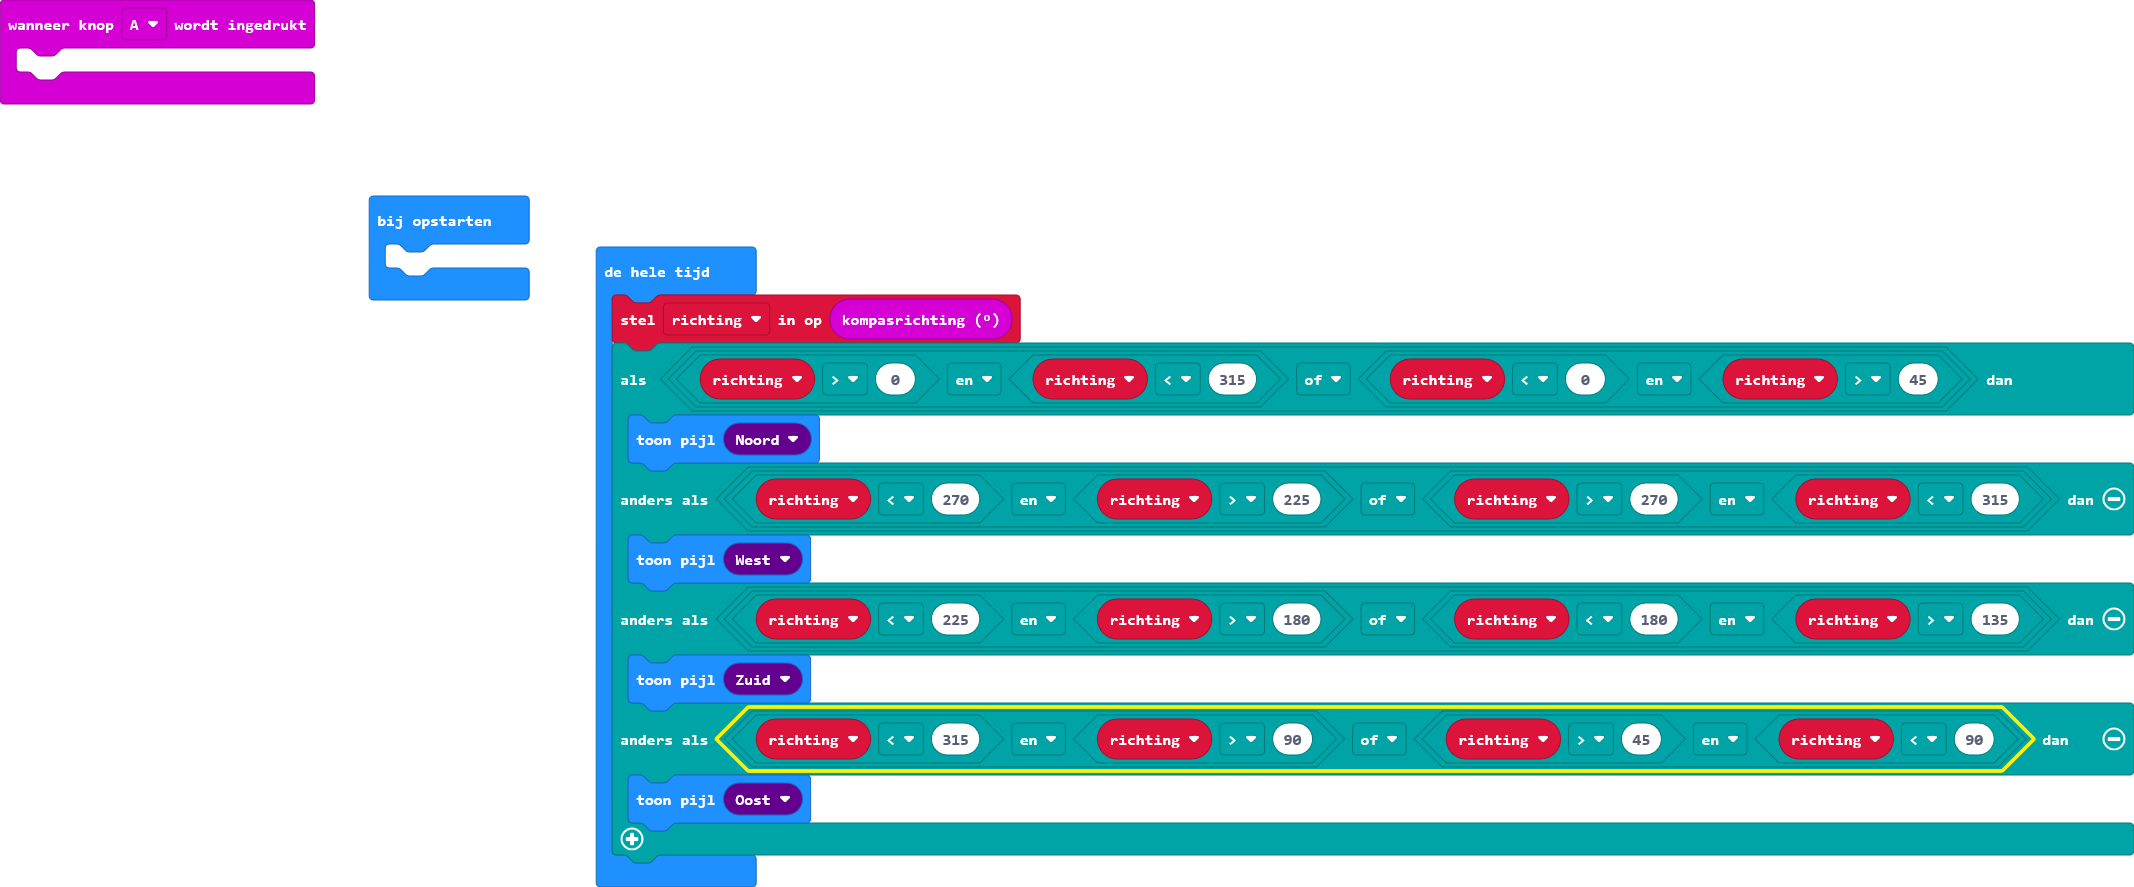
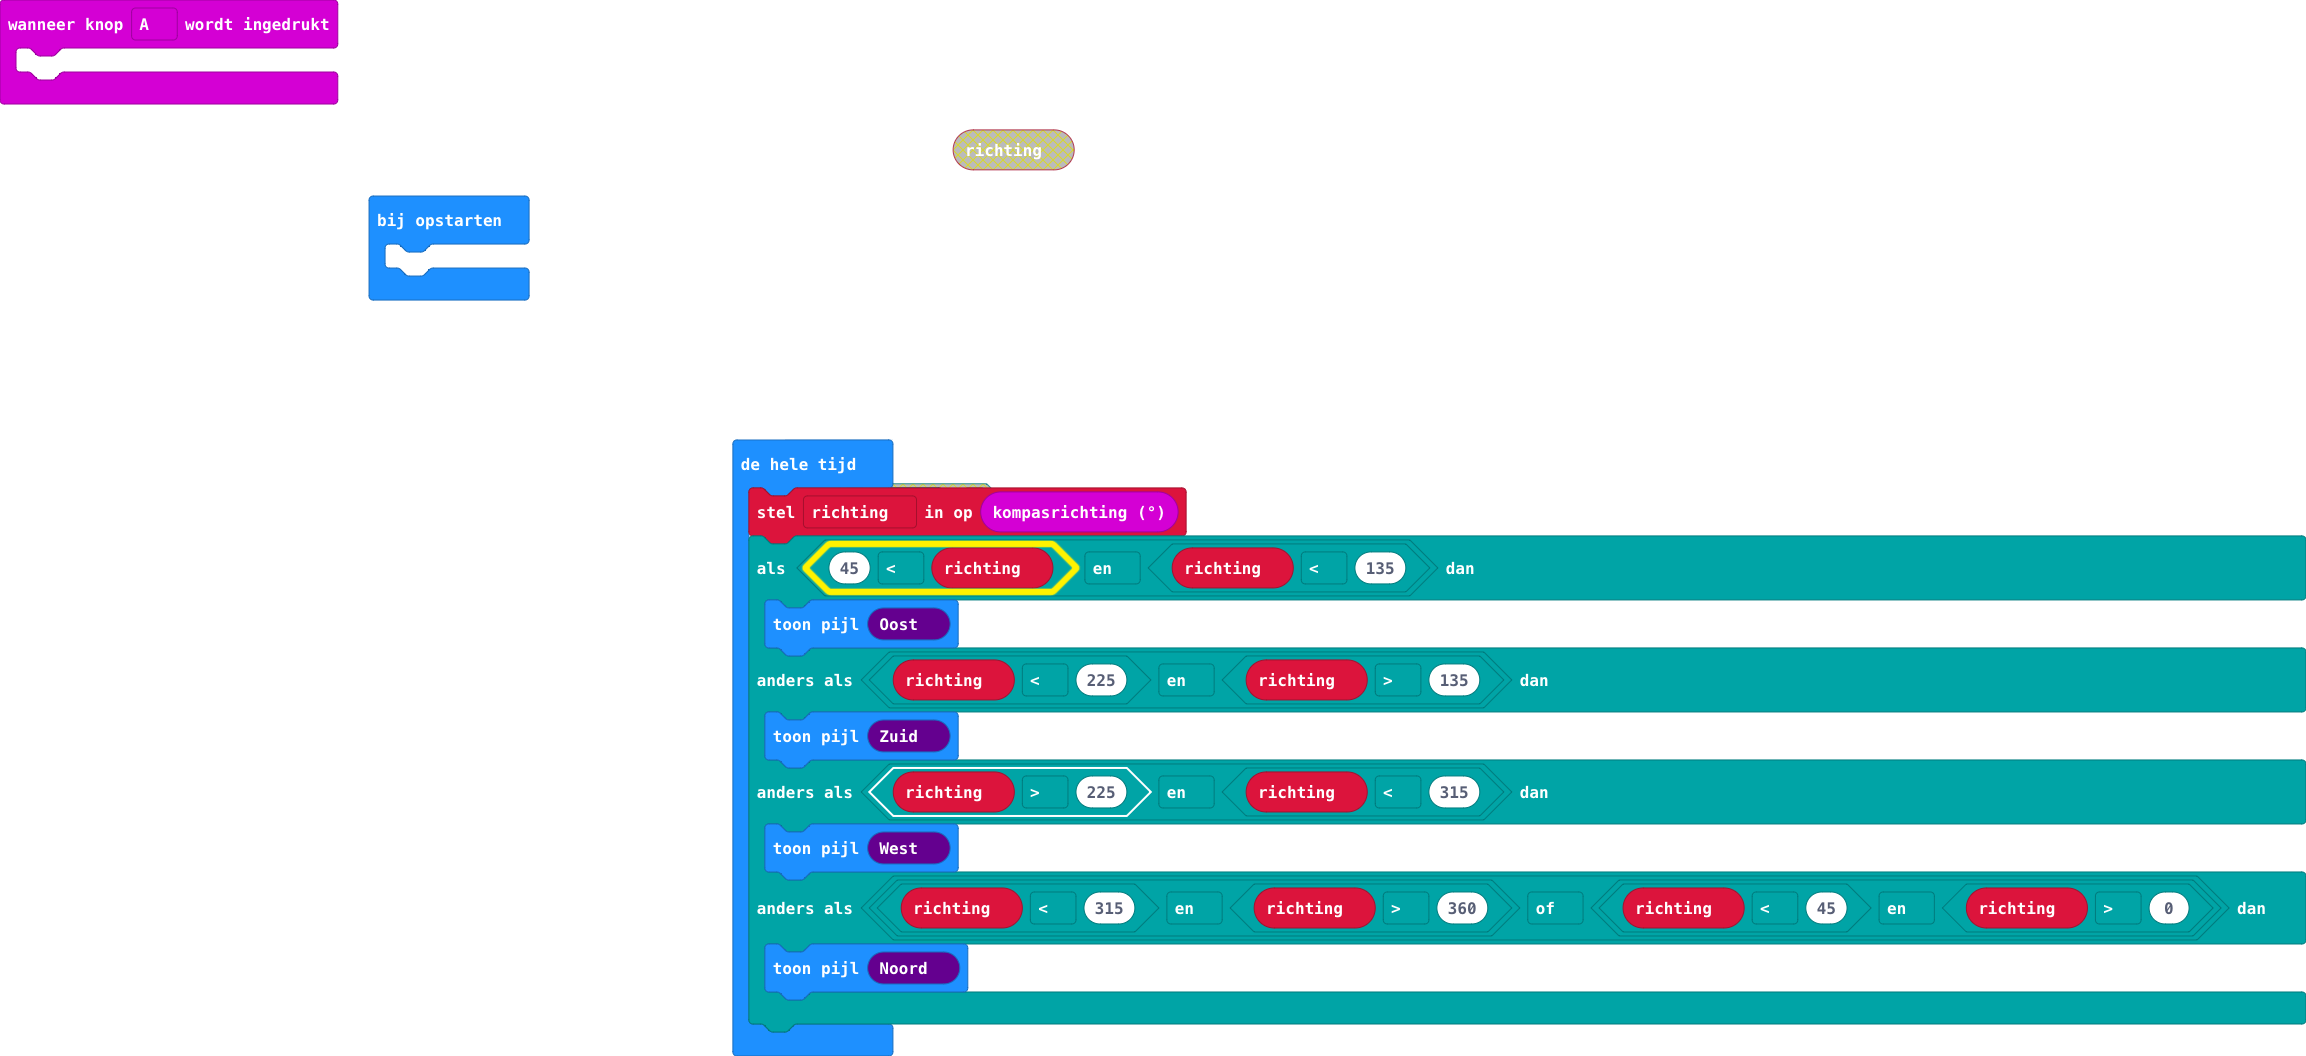
Kompas klaar

diff --git a/main.ts b/main.ts
@@ -4,13 +4,13 @@ input.onButtonPressed(Button.A, function () {
 })
 basic.forever(function () {
     richting = input.compassHeading()
-    if (richting > 0 && richting < 315 || richting < 0 && richting > 45) {
-        basic.showArrow(ArrowNames.North)
-    } else if (richting < 270 && richting > 225 || richting > 270 && richting < 315) {
-        basic.showArrow(ArrowNames.West)
-    } else if (richting < 225 && richting > 180 || richting < 180 && richting > 135) {
-        basic.showArrow(ArrowNames.South)
-    } else if (richting < 315 && richting > 90 || richting > 45 && richting < 90) {
+    if (45 < richting && richting < 135) {
         basic.showArrow(ArrowNames.East)
+    } else if (richting < 225 && richting > 135) {
+        basic.showArrow(ArrowNames.South)
+    } else if (richting > 225 && richting < 315) {
+        basic.showArrow(ArrowNames.West)
+    } else if (richting < 315 && richting > 360 || richting < 45 && richting > 0) {
+        basic.showArrow(ArrowNames.North)
     }
 })
